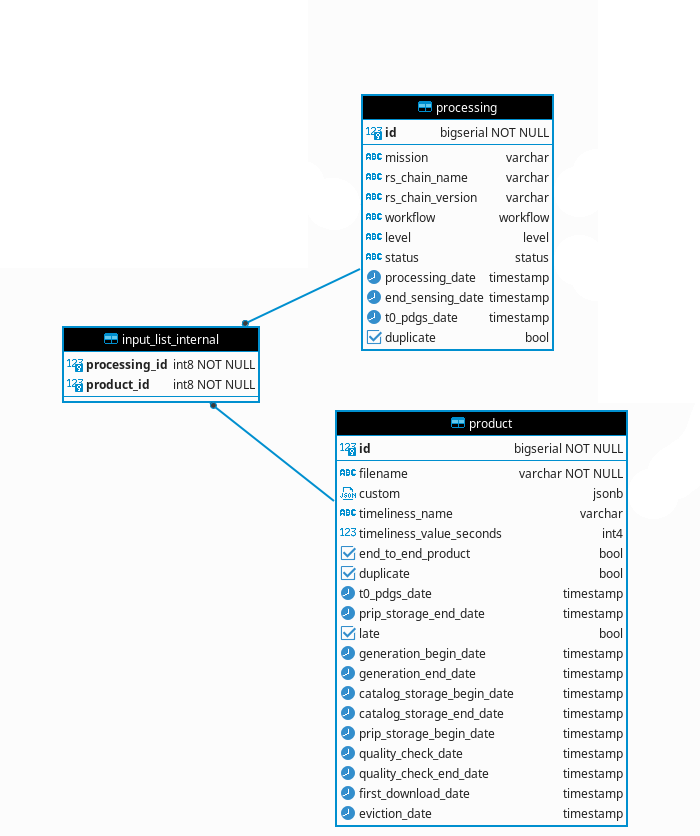
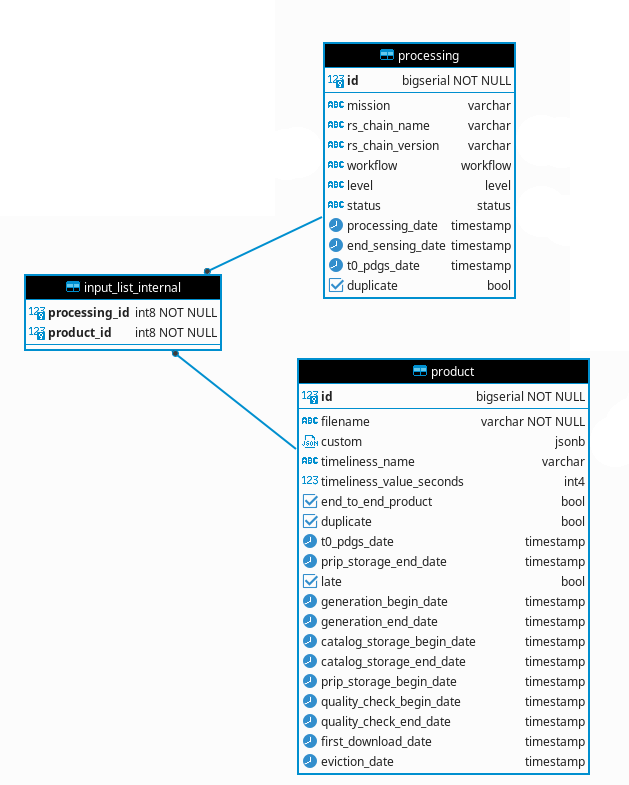
Rename quality_check_date to quality_check_begin_date

Changed region(s): [[0.0302, 0.3363, 0.9364, 1.0], [0.4531, 0.0306, 0.8458, 0.428], [0.3625, 0.3057, 0.4833, 0.3669]]

diff --git a/trace-processor/common/src/test/java/eu/csgroup/coprs/monitoring/common/EntityTest.java b/trace-processor/common/src/test/java/eu/csgroup/coprs/monitoring/common/EntityTest.java
@@ -305,7 +305,7 @@ public class EntityTest {
         product.setCatalogStorageEndDate(Instant.parse("2022-10-17T10:23:59.00Z"));
         product.setPripStorageBeginDate(Instant.parse("2022-10-18T10:23:59.00Z"));
         product.setPripStorageEndDate(Instant.parse("2022-10-19T10:23:59.00Z"));
-        product.setQualityCheckDate(Instant.parse("2022-10-20T10:23:59.00Z"));
+        product.setQualityCheckBeginDate(Instant.parse("2022-10-20T10:23:59.00Z"));
         product.setQualityCheckEndDate(Instant.parse("2022-10-21T10:23:59.00Z"));
         product.setFirstDownloadDate(Instant.parse("2022-10-22T10:23:59.00Z"));
         product.setEvictionDate(Instant.parse("2022-10-23T10:23:59.00Z"));

diff --git a/trace-processor/applications/sink/trace-ingestor/src/test/java/eu/csgroup/coprs/monitoring/traceingestor/ProcessingIngestionTests.java b/trace-processor/applications/sink/trace-ingestor/src/test/java/eu/csgroup/coprs/monitoring/traceingestor/ProcessingIngestionTests.java
@@ -29,9 +29,9 @@ import static org.assertj.core.api.Assertions.assertThat;
 @ContextConfiguration(initializers = TestInitializer.class)
 @DataJpaTest
 // Comment the two below annotation to test with non embedded database
-@AutoConfigureEmbeddedDatabase
-@ActiveProfiles("dev-embedded")
-//@ActiveProfiles("dev-integration")
+//@AutoConfigureEmbeddedDatabase
+//@ActiveProfiles("dev-embedded")
+@ActiveProfiles("dev-integration")
 public class ProcessingIngestionTests {
 
     private static final TraceIngestorConfiguration conf = new TraceIngestorConfiguration();

diff --git a/trace-processor/common/src/main/java/eu/csgroup/coprs/monitoring/common/datamodel/entities/Product.java b/trace-processor/common/src/main/java/eu/csgroup/coprs/monitoring/common/datamodel/entities/Product.java
@@ -62,7 +62,7 @@ public class Product implements DefaultEntity, Serializable {
 
     private Instant pripStorageEndDate;
 
-    private Instant qualityCheckDate;
+    private Instant qualityCheckBeginDate;
 
     private Instant qualityCheckEndDate;
 
